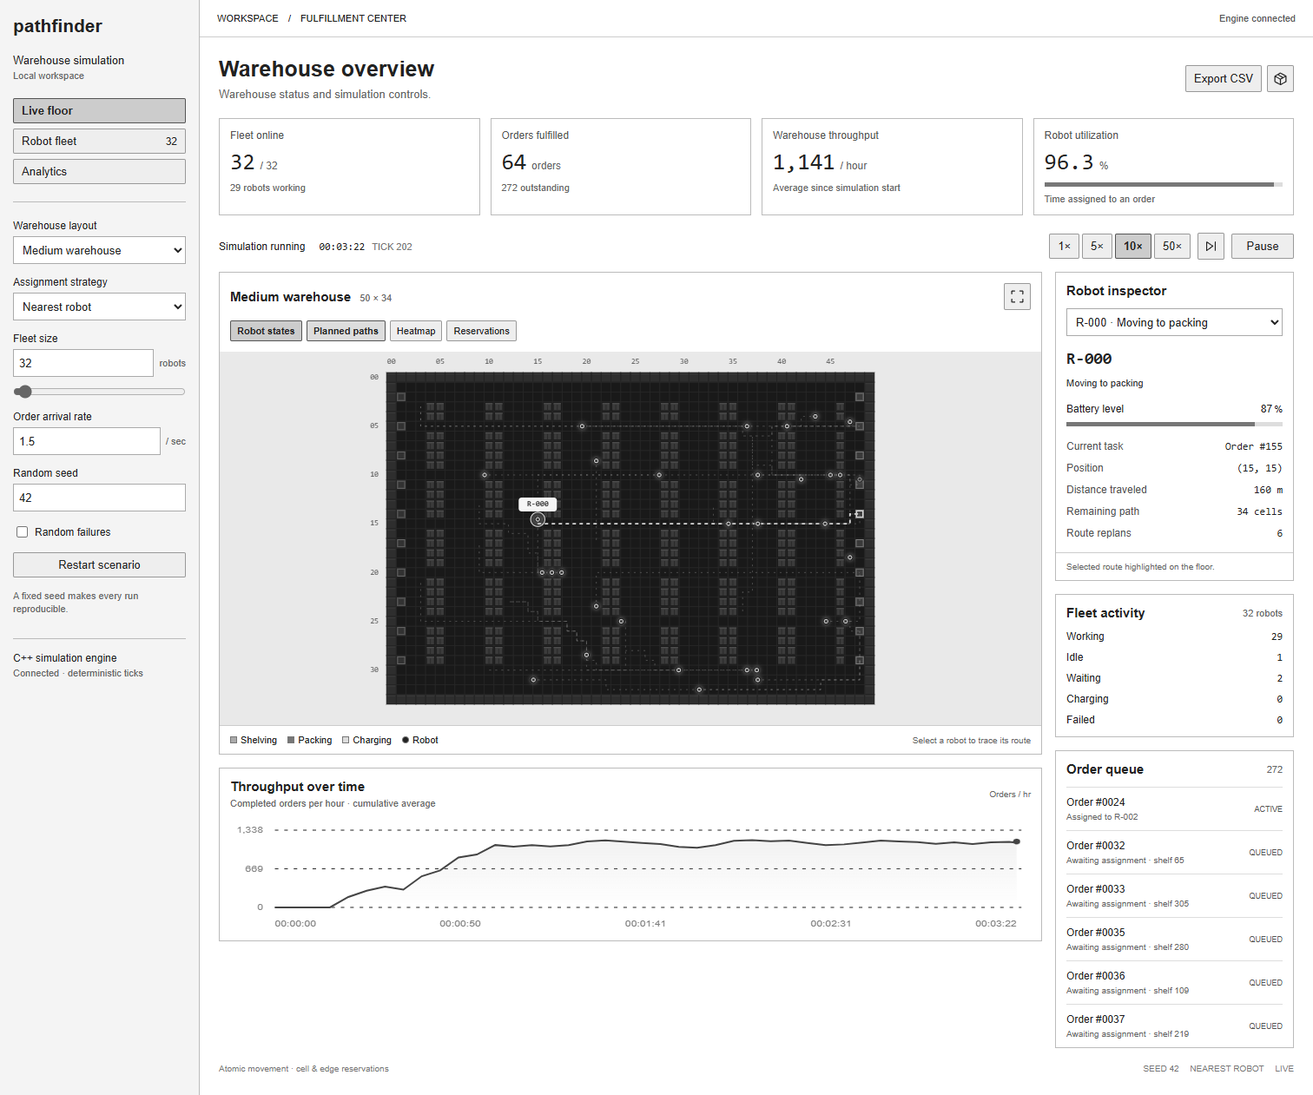
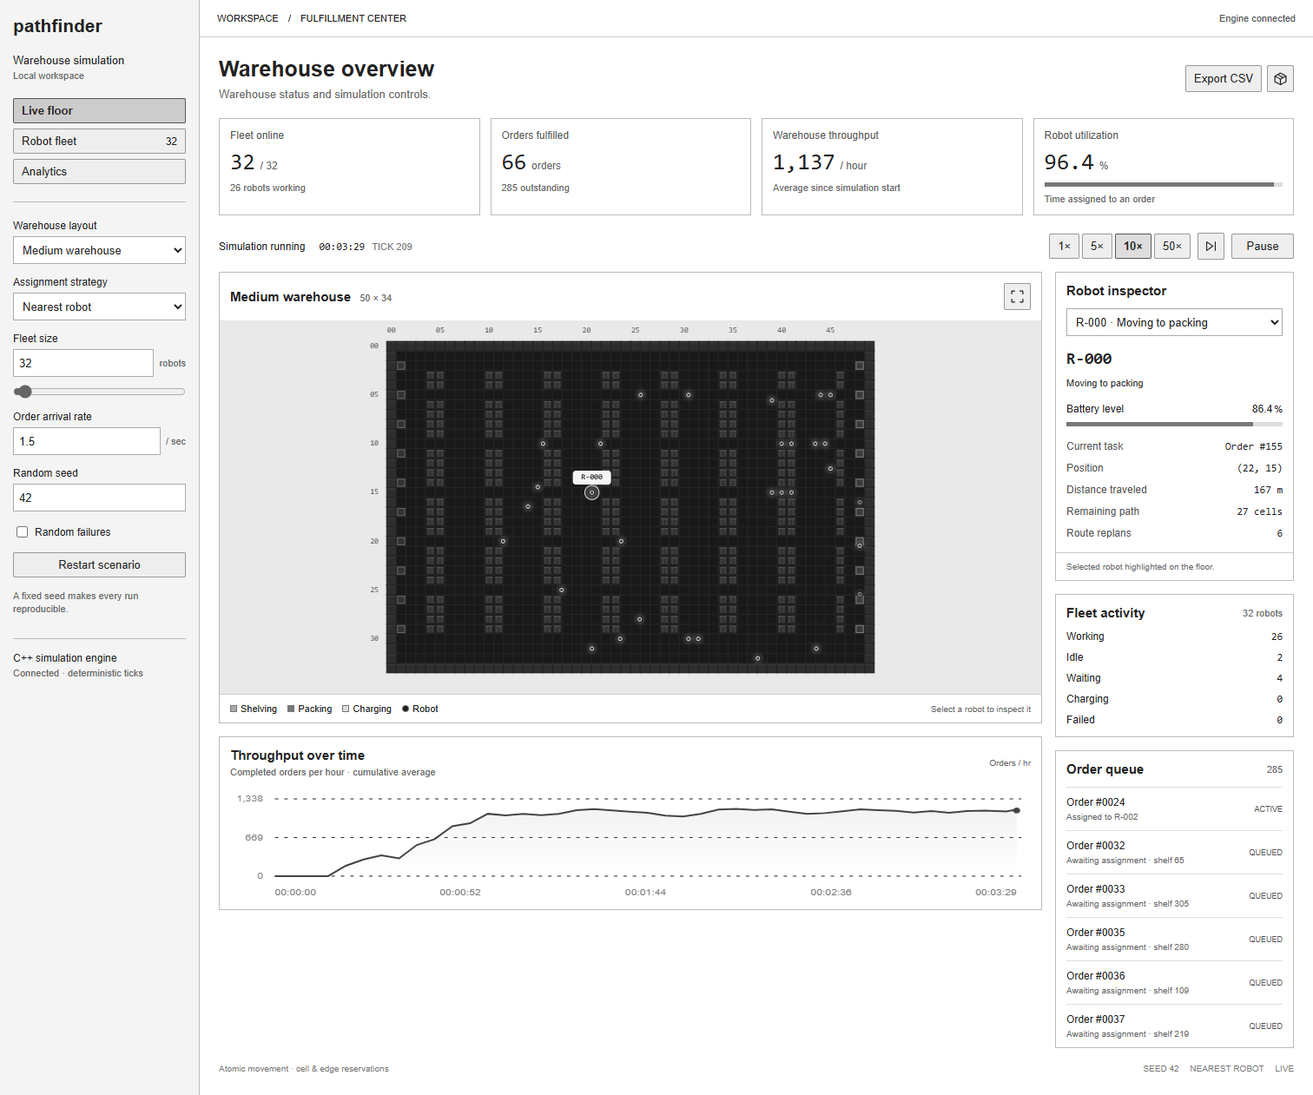
Replace README screenshot with focused simulation GIF and remove overlays

diff --git a/frontend/src/App.tsx b/frontend/src/App.tsx
@@ -4,12 +4,11 @@ import { FleetDistribution, ThroughputChart, duration, number } from './componen
 import { Icon } from './components/Icon';
 import { useSimulation } from './useSimulation';
 import { robotCategory, robotColors, robotName, stateLabel } from './types';
-import type { Config, Overlay, Robot } from './types';
+import type { Config, Robot } from './types';
 
 const initialConfig: Config = { robots: 32, orderRate: 1.5, scheduler: 'nearest', seed: 42, layout: 'medium', failuresEnabled: false, failureProbability: .00005 };
 const schedulers: Record<string, string> = { random: 'Random assignment', nearest: 'Nearest robot', cost: 'Route cost', hungarian: 'Hungarian batch' };
 const layoutNames: Record<string, string> = { small: 'Small warehouse', medium: 'Medium warehouse', large: 'Large warehouse', congested: 'Congestion test', procedural: 'Procedural warehouse' };
-const overlayNames: { key: Overlay; name: string; icon: string }[] = [{ key: 'states', name: 'Robot states', icon: 'bot' }, { key: 'paths', name: 'Planned paths', icon: 'route' }, { key: 'heatmap', name: 'Heatmap', icon: 'pulse' }, { key: 'reservations', name: 'Reservations', icon: 'layers' }];
 
 function RobotBadge({ robot }: { robot: Robot }) {
   const color = robotColors[robotCategory(robot.state)];
@@ -22,7 +21,6 @@ export default function App() {
   const [configured, setConfigured] = useState(false);
   const [view, setView] = useState<'live' | 'fleet' | 'analytics'>('live');
   const [selected, setSelected] = useState<number | null>(0);
-  const [overlays, setOverlays] = useState<Set<Overlay>>(new Set(['states']));
   const [search, setSearch] = useState('');
   const [expanded, setExpanded] = useState(false);
   useEffect(() => {
@@ -40,7 +38,6 @@ export default function App() {
   const dirty = state && Object.entries(draft).some(([key, value]) => state.config[key as keyof Config] !== value);
   const invalid = !Number.isInteger(draft.robots) || draft.robots < 1 || draft.robots > 1000 || !Number.isFinite(draft.orderRate) || draft.orderRate < 0 || draft.orderRate > 100 || !Number.isInteger(draft.seed) || draft.seed < 0 || draft.seed > 4294967295;
   const change = <K extends keyof Config>(key: K, value: Config[K]) => setDraft(previous => ({ ...previous, [key]: value }));
-  const toggle = (key: Overlay) => setOverlays(previous => { const next = new Set(previous); if (next.has(key)) next.delete(key); else next.add(key); return next; });
   const choose = (id: number) => { setSelected(id); setView('live'); };
   const restart = async () => { await control({ action: 'restart', config: draft }); };
 
@@ -86,10 +83,10 @@ export default function App() {
           <div className="playback-bar"><div className="run-state"><span className={`live-dot ${state.paused ? 'paused' : ''}`}/><strong>{state.paused ? 'Simulation paused' : 'Simulation running'}</strong><span className="run-divider"/><span className="sim-clock" data-testid="simulation-clock">{duration(state.tick)}</span><span className="tick-counter">TICK {number(state.tick)}</span></div><div className="playback-controls"><div className="speed-control" aria-label="Simulation speed">{[1, 5, 10, 50].map(speed => <button aria-pressed={state.speed === speed} key={speed} onClick={() => void control({ action: 'speed', speed })} disabled={busy || !connected}>{speed}×</button>)}</div><button className="icon-button step-button" aria-label="Advance one tick" title="Advance one tick" onClick={() => void control({ action: 'step' })} disabled={busy || !connected}><Icon name="step" size={17}/></button><button className="play-button" onClick={() => void control({ action: state.paused ? 'resume' : 'pause' })} disabled={busy || !connected}><Icon name={state.paused ? 'play' : 'pause'} size={15}/>{state.paused ? 'Resume' : 'Pause'}</button></div></div>
 
           {view === 'live' && <div className={`operations-grid ${expanded ? 'expanded' : ''}`}>
-            <div className="floor-column"><section className="panel floor-panel"><div className="panel-heading"><div><span className="section-kicker">LIVE FLOOR</span><h2>{layoutNames[state.config.layout] ?? state.config.layout}<span className="dimension-label">{state.warehouse.width} × {state.warehouse.height}</span></h2></div><button className="icon-button" aria-label={expanded ? 'Restore floor size' : 'Expand floor'} onClick={() => setExpanded(!expanded)} title="Expand floor"><Icon name="expand" size={17}/></button></div><div className="overlay-bar" aria-label="Map overlays">{overlayNames.map(overlay => <button key={overlay.key} aria-pressed={overlays.has(overlay.key)} onClick={() => toggle(overlay.key)}><Icon name={overlay.icon} size={14}/>{overlay.name}</button>)}</div><div className="canvas-container"><WarehouseCanvas state={state} overlays={overlays} selected={selected} onSelect={setSelected}/><span className="map-caption"><span className="mini-dot mint"/> LIVE TELEMETRY <span>1 CELL = 1 M</span></span></div><div className="map-legend"><span><i className="legend-shelf"/>Shelving</span><span><i className="legend-pack"/>Packing</span><span><i className="legend-charge"/>Charging</span><span><i className="legend-robot"/>Robot</span><small>Select a robot to trace its route</small></div></section>
+            <div className="floor-column"><section className="panel floor-panel"><div className="panel-heading"><div><span className="section-kicker">LIVE FLOOR</span><h2>{layoutNames[state.config.layout] ?? state.config.layout}<span className="dimension-label">{state.warehouse.width} × {state.warehouse.height}</span></h2></div><button className="icon-button" aria-label={expanded ? 'Restore floor size' : 'Expand floor'} onClick={() => setExpanded(!expanded)} title="Expand floor"><Icon name="expand" size={17}/></button></div><div className="canvas-container"><WarehouseCanvas state={state} selected={selected} onSelect={setSelected}/><span className="map-caption"><span className="mini-dot mint"/> LIVE TELEMETRY <span>1 CELL = 1 M</span></span></div><div className="map-legend"><span><i className="legend-shelf"/>Shelving</span><span><i className="legend-pack"/>Packing</span><span><i className="legend-charge"/>Charging</span><span><i className="legend-robot"/>Robot</span><small>Select a robot to inspect it</small></div></section>
               <section className="panel throughput-panel"><div className="panel-heading"><div><h2>Throughput over time</h2><p>Completed orders per hour · cumulative average</p></div><span className="chart-label"><span className="line-key"/>Orders / hr</span></div><ThroughputChart history={state.history ?? []}/></section>
             </div>
-            <aside className="detail-column"><section className="panel inspector"><div className="panel-heading"><h2>Robot inspector</h2><Icon name="bot" size={17}/></div><label className="sr-only" htmlFor="robot-selector">Select robot</label><select id="robot-selector" className="robot-selector" value={selected ?? ''} onChange={event => setSelected(Number(event.target.value))}>{state.robots.map(r => <option key={r.id} value={r.id}>{robotName(r.id)} · {stateLabel(r.state)}</option>)}</select>{robot && <><div className="robot-profile"><span className="robot-avatar"><Icon name="bot" size={34}/></span><div><h3 data-testid="selected-robot">{robotName(robot.id)}</h3><RobotBadge robot={robot}/></div></div><div className="battery-heading"><span><Icon name="bolt" size={13}/>Battery level</span><strong>{number(robot.battery, 1)}<small>%</small></strong></div><div className={`battery-track ${robot.battery < 25 ? 'low' : ''}`}><span style={{ width: `${robot.battery}%` }}/></div><dl className="robot-facts"><div><dt>Current task</dt><dd>{robot.taskId === null ? 'Unassigned' : `Order #${robot.taskId}`}</dd></div><div><dt>Position</dt><dd>({robot.x}, {robot.y})</dd></div><div><dt>Distance traveled</dt><dd>{number(robot.distance)} <span>m</span></dd></div><div><dt>Remaining path</dt><dd>{robot.path.length} <span>cells</span></dd></div><div><dt>Route replans</dt><dd>{robot.replans}</dd></div></dl><div className="inspector-note"><Icon name="route" size={14}/>{robot.path.length ? 'Selected route highlighted on the floor.' : 'Ready for the next route update.'}</div></>}</section>
+            <aside className="detail-column"><section className="panel inspector"><div className="panel-heading"><h2>Robot inspector</h2><Icon name="bot" size={17}/></div><label className="sr-only" htmlFor="robot-selector">Select robot</label><select id="robot-selector" className="robot-selector" value={selected ?? ''} onChange={event => setSelected(Number(event.target.value))}>{state.robots.map(r => <option key={r.id} value={r.id}>{robotName(r.id)} · {stateLabel(r.state)}</option>)}</select>{robot && <><div className="robot-profile"><span className="robot-avatar"><Icon name="bot" size={34}/></span><div><h3 data-testid="selected-robot">{robotName(robot.id)}</h3><RobotBadge robot={robot}/></div></div><div className="battery-heading"><span><Icon name="bolt" size={13}/>Battery level</span><strong>{number(robot.battery, 1)}<small>%</small></strong></div><div className={`battery-track ${robot.battery < 25 ? 'low' : ''}`}><span style={{ width: `${robot.battery}%` }}/></div><dl className="robot-facts"><div><dt>Current task</dt><dd>{robot.taskId === null ? 'Unassigned' : `Order #${robot.taskId}`}</dd></div><div><dt>Position</dt><dd>({robot.x}, {robot.y})</dd></div><div><dt>Distance traveled</dt><dd>{number(robot.distance)} <span>m</span></dd></div><div><dt>Remaining path</dt><dd>{robot.path.length} <span>cells</span></dd></div><div><dt>Route replans</dt><dd>{robot.replans}</dd></div></dl><div className="inspector-note"><Icon name="route" size={14}/>Selected robot highlighted on the floor.</div></>}</section>
               <section className="panel fleet-panel"><div className="panel-heading"><h2>Fleet activity</h2><span className="subtle-tag">{state.robots.length} robots</span></div><FleetDistribution robots={state.robots}/></section>
               <section className="panel queue-panel"><div className="panel-heading"><h2>Order queue</h2><span className="queue-count">{number(metrics!.outstandingOrders)}</span></div><div className="order-list">{tasks.length ? tasks.map(order => <div className="order-row" key={order.id}><span className="order-icon"><Icon name="box" size={15}/></span><div><strong>Order #{String(order.id).padStart(4, '0')}</strong><small>{order.assignedRobot !== null ? `Assigned to ${robotName(order.assignedRobot)}` : `Awaiting assignment · shelf ${order.shelfId}`}</small></div><span className={`priority p${order.priority}`}>{order.priority >= 3 ? 'HIGH' : order.status === 'assigned' ? 'ACTIVE' : 'QUEUED'}</span></div>) : <p className="empty-queue">No outstanding orders. The floor is clear.</p>}</div></section>
             </aside>

diff --git a/frontend/src/components/WarehouseCanvas.tsx b/frontend/src/components/WarehouseCanvas.tsx
@@ -1,15 +1,14 @@
 import { useEffect, useRef } from 'react';
-import type { Overlay, Robot, SimulationState } from '../types';
+import type { Robot, SimulationState } from '../types';
 import { robotCategory, robotColors, robotName } from '../types';
 
 type Props = {
   state: SimulationState;
-  overlays: Set<Overlay>;
   selected: number | null;
   onSelect: (id: number) => void;
 };
 
-export function WarehouseCanvas({ state, overlays, selected, onSelect }: Props) {
+export function WarehouseCanvas({ state, selected, onSelect }: Props) {
   const canvasRef = useRef<HTMLCanvasElement>(null);
   const view = useRef({ cell: 1, left: 0, top: 0 });
   const current = useRef(state);
@@ -44,7 +43,7 @@ export function WarehouseCanvas({ state, overlays, selected, onSelect }: Props) 
     resize.observe(canvas);
     function draw(now: number) {
       if (!context) return;
-      const { warehouse, robots, heatmap, reservations, tick } = current.current;
+      const { warehouse, robots } = current.current;
       if (width < 1 || height < 1) { animation = requestAnimationFrame(draw); return; }
       const cell = Math.min((width - 50) / warehouse.width, (height - 48) / warehouse.height);
       const left = (width - cell * warehouse.width) / 2;
@@ -106,40 +105,6 @@ export function WarehouseCanvas({ state, overlays, selected, onSelect }: Props) 
       context.font = '9px "SFMono-Regular", Consolas, monospace';
       context.fillStyle = '#4f6379';
       for (let x = 0; x < warehouse.width; x += 5) context.fillText(String(x).padStart(2, '0'), xAt(x), top - 12);
-      if (overlays.has('heatmap') && heatmap?.length) {
-        const max = Math.max(1, ...heatmap);
-        for (let i = 0; i < heatmap.length; i++) {
-          if (!heatmap[i]) continue;
-          const value = Math.sqrt(heatmap[i] / max);
-          context.fillStyle = `rgba(245, ${Math.round(160 - value * 80)}, 66, ${value * .67})`;
-          context.fillRect(left + i % warehouse.width * cell, top + Math.floor(i / warehouse.width) * cell, cell, cell);
-        }
-      }
-      if (overlays.has('reservations')) {
-        for (const reservation of reservations ?? []) {
-          if (reservation.tick < tick || reservation.tick > tick + 12) continue;
-          context.fillStyle = `rgba(181, 158, 252, ${Math.max(.08, .4 - (reservation.tick - tick) * .025)})`;
-          context.fillRect(left + reservation.x * cell + cell * .15, top + reservation.y * cell + cell * .15, cell * .7, cell * .7);
-        }
-      }
-      const pathRobots = overlays.has('paths') ? robots : robots.filter(robot => robot.id === selected);
-      for (const robot of pathRobots) {
-        if (!robot.path?.length) continue;
-        context.beginPath();
-        context.moveTo(xAt(robot.x), yAt(robot.y));
-        for (const point of robot.path) context.lineTo(xAt(point.x), yAt(point.y));
-        context.strokeStyle = robot.id === selected ? '#85efd7' : '#51bda25c';
-        context.lineWidth = robot.id === selected ? 1.8 : 1;
-        context.setLineDash(robot.id === selected ? [4, 4] : [2, 5]);
-        context.stroke();
-        context.setLineDash([]);
-        if (robot.id === selected) {
-          const destination = robot.path[robot.path.length - 1];
-          context.strokeStyle = '#85efd7';
-          context.lineWidth = 1.5;
-          context.strokeRect(left + destination.x * cell + 2, top + destination.y * cell + 2, cell - 4, cell - 4);
-        }
-      }
       const progress = Math.min(1, (now - updated.current) / frameGap.current);
       const sorted = [...robots].sort((a, b) => Number(a.id === selected) - Number(b.id === selected));
       for (const robot of sorted) {
@@ -150,7 +115,7 @@ export function WarehouseCanvas({ state, overlays, selected, onSelect }: Props) 
         const cx = xAt(x);
         const cy = yAt(y);
         const radius = Math.max(2.1, cell * .28);
-        const color = overlays.has('states') ? robotColors[robotCategory(robot.state)] : '#70e7ce';
+        const color = robotColors[robotCategory(robot.state)];
         if (robot.id === selected) {
           context.beginPath();
           context.arc(cx, cy, radius + 5, 0, Math.PI * 2);
@@ -190,7 +155,7 @@ export function WarehouseCanvas({ state, overlays, selected, onSelect }: Props) 
     }
     animation = requestAnimationFrame(draw);
     return () => { resize.disconnect(); cancelAnimationFrame(animation); };
-  }, [overlays, selected]);
+  }, [selected]);
 
   const select = (event: React.MouseEvent<HTMLCanvasElement>) => {
     const rect = event.currentTarget.getBoundingClientRect();

diff --git a/tests/browser/dashboard.spec.ts b/tests/browser/dashboard.spec.ts
@@ -1,7 +1,7 @@
 import { test, expect } from '@playwright/test';
 import { mkdir } from 'node:fs/promises';
 
-test('live controls, robot selection, overlays, fleet and analytics', async ({ page }) => {
+test('live controls, robot selection, fleet and analytics', async ({ page }) => {
   const errors: string[] = [];
   page.on('pageerror', error => errors.push(error.message));
   await page.goto('/');
@@ -23,10 +23,6 @@ test('live controls, robot selection, overlays, fleet and analytics', async ({ p
   const cell = Math.min((box!.width - 50) / state.warehouse.width, (box!.height - 48) / state.warehouse.height);
   await canvas.click({ position: { x: (box!.width - cell * state.warehouse.width) / 2 + (target.x + .5) * cell, y: (box!.height - cell * state.warehouse.height) / 2 + (target.y + .5) * cell } });
   await expect(page.getByTestId('selected-robot')).toHaveText('R-007');
-  await page.getByRole('button', { name: 'Planned paths', exact: true }).click();
-  await expect(page.getByRole('button', { name: 'Planned paths', exact: true })).toHaveAttribute('aria-pressed', 'true');
-  await page.getByRole('button', { name: 'Heatmap', exact: true }).click();
-  await page.getByRole('button', { name: 'Reservations', exact: true }).click();
   await page.getByRole('button', { name: /Robot fleet/ }).click();
   await page.getByLabel('Search robots').fill('R-003');
   await expect(page.locator('tbody tr')).toHaveCount(1);
@@ -66,7 +62,6 @@ test('capture an actual running simulation', async ({ page }) => {
   await page.goto('/');
   await expect.poll(async () => (await (await page.request.get('/api/state')).json()).tick, { timeout: 15000 }).toBeGreaterThan(180);
   await page.getByRole('button', { name: '10×', exact: true }).click();
-  await page.getByRole('button', { name: 'Planned paths', exact: true }).click();
   const state = await (await page.request.get('/api/state')).json();
   const active = state.robots.find((r: { path: unknown[] }) => r.path.length > 10);
   if (active) await page.getByLabel('Select robot').selectOption(String(active.id));

diff --git a/frontend/src/styles.css b/frontend/src/styles.css
@@ -45,7 +45,7 @@ input[type=checkbox], input[type=range] { accent-color: #666; }
 .workspace-tag small, .sidebar-bottom small { display: block; color: #666; margin-top: 4px; font-size: 11px; }
 .sidebar nav { display: flex; flex-direction: column; gap: 6px; }
 .nav-item { display: flex; align-items: center; justify-content: space-between; text-align: left; }
-.nav-item svg, .apply-button svg, .secondary-button svg, .play-button svg, .overlay-bar svg { display: none; }
+.nav-item svg, .apply-button svg, .secondary-button svg, .play-button svg { display: none; }
 .nav-count { font-size: 12px; font-weight: normal; }
 .sidebar-divider { border-top: 1px solid #bbb; margin: 20px 0; }
 .config-form { display: flex; flex-direction: column; gap: 14px; }
@@ -96,8 +96,6 @@ h1 { font-size: 25px; margin: 0; font-weight: 600; }
 .panel-heading p { font-size: 11px; color: #666; margin: 5px 0 0; }
 .panel-heading > svg { display: none; }
 .dimension-label { margin-left: 10px; font-size: 11px; color: #666; font-weight: normal; }
-.overlay-bar { display: flex; gap: 5px; flex-wrap: wrap; padding: 0 12px 12px; }
-.overlay-bar button { font-size: 11px; padding: 5px 7px; }
 .canvas-container { height: 430px; background: #e9e9e9; }
 .warehouse-canvas { width: 100%; height: 100%; display: block; cursor: crosshair; filter: grayscale(1); }
 .map-legend { display: flex; align-items: center; gap: 12px; flex-wrap: wrap; padding: 10px 12px; font-size: 11px; border-top: 1px solid #ccc; }

diff --git a/frontend/src/types.ts b/frontend/src/types.ts
@@ -54,8 +54,6 @@ export type SimulationState = {
   robots: Robot[];
   orders: Order[];
   metrics: Metrics;
-  heatmap: number[];
-  reservations: (Point & { tick: number; robotId: number })[];
   history: HistoryPoint[];
 };
 export type Control = {
@@ -63,7 +61,6 @@ export type Control = {
   speed?: number;
   config?: Config;
 };
-export type Overlay = 'paths' | 'heatmap' | 'reservations' | 'states';
 
 export function stateLabel(state: string): string {
   return state.toLowerCase().replaceAll('_', ' ').replace(/^./, s => s.toUpperCase());

diff --git a/README.md b/README.md
@@ -6,13 +6,13 @@
 
 ## Demo
 
-![Pathfinder dashboard captured from the running C++ simulation](docs/demo/screenshot.png)
+![Warehouse robots and robot selector recorded from the C++ simulation](docs/demo/demo.gif)
 
-Build and run the project, then open **http://127.0.0.1:8080**. Try 10× speed, enable planned paths, and select a robot to inspect its current task and battery. Use the same layout and seed when comparing schedulers.
+Build and run the project, then open **http://127.0.0.1:8080**. Try 10× speed and select a robot to inspect its current task and battery. Use the same layout and seed when comparing schedulers.
 
-The dashboard includes live throughput and fleet metrics, a selectable warehouse canvas, heatmap/path/reservation overlays, a robot inspector, a task queue, metric exports, and controls for pause, step, restart, fleet size, arrival rate, scheduler and seed.
+The dashboard includes live throughput and fleet metrics, a selectable warehouse canvas, a robot inspector, a task queue, metric exports, and controls for pause, step, restart, fleet size, arrival rate, scheduler and seed.
 
-Demo media lives in [`docs/demo/`](docs/demo/README.md). That page explains how to reproduce the screenshot and where to add a GIF or video; no generated illustration is presented as a running simulation.
+Demo media lives in [`docs/demo/`](docs/demo/README.md). The GIF shows a recorded warehouse run and robot selector; it is not an interactive control. Capture instructions are included there.
 
 ## Features
 
@@ -20,7 +20,7 @@ Demo media lives in [`docs/demo/`](docs/demo/README.md). That page explains how 
 - **Hand-written A*:** binary priority queue, admissible Manhattan heuristic, route cost/node/timing statistics.
 - **Concurrent collision avoidance:** exclusive cells, reverse-edge rejection, safe following chains, waiting, replanning and four-tick reservation forecasts.
 - **Interchangeable assignment:** seeded random, Manhattan nearest, exact route-cost selection with A* confirmation, and rectangular Hungarian optimization.
-- **Congestion-aware routes:** decaying density penalties and a cumulative traffic heatmap.
+- **Congestion-aware routes:** decaying density penalties and cumulative traffic counters.
 - **Battery management:** round-trip energy checks, charger admission, charging time and automatic return-to-work.
 - **Failure recovery:** temporary/permanent failures, abandoned-order reassignment and physical failed-robot obstacles.
 - **Real engine visualization:** React/TypeScript canvas, SSE snapshots and a small Node bridge to the C++ process.

diff --git a/docs/demo/README.md b/docs/demo/README.md
@@ -1,19 +1,17 @@
-# Demo media
+# Demo recording
 
-This directory is the intended home for media captured from the running simulator.
+![Warehouse animation and robot selector](demo.gif)
 
-![Running Pathfinder dashboard](screenshot.png)
+The README uses `demo.gif`: an eight-second looping recording of the real C++ simulation, cropped to the warehouse and robot dropdown. It has 80 frames, includes robot selection changes, and contains no heatmap, reservation, or planned-path overlays. A GIF is a recording; its dropdown is not interactive.
 
-- `screenshot.png`: actual dashboard screenshot captured by the browser integration check.
-- `demo.gif` or `demo.mp4`: optional future recording; these are not fabricated or bundled placeholders.
+## Recreate it
 
-To record a demonstration:
+With dependencies installed and the built simulator running through `npm start`:
 
-1. Follow the root README to build the engine and dashboard, then run `npm start`.
-2. Open `http://127.0.0.1:8080` at a desktop resolution.
-3. Use the medium layout with 32 robots, seed 42 and 10× speed.
-4. Show robots retrieving items, delivering to packing, and battery levels changing.
-5. Select a robot, toggle planned paths, then switch to the congestion heatmap or reservations.
-6. Export metrics to show that the visual demo and benchmark data come from the same engine.
+```sh
+node scripts/capture-demo.mjs
+```
 
-A screenshot documents one observed state, not a claim about throughput capacity. Benchmark tables come only from native CLI runs.
+The capture script uses installed Chrome (or Playwright Chromium with `CI=1`), resets to the medium layout with 32 robots and seed 42, and advances the native engine one tick per frame. Presentation-only cropping does not alter robot positions. `recording.json` records frame count, tick range and settings.
+
+`screenshot.png` is retained as a full-dashboard reference from browser testing; the repository front page displays the GIF instead.

diff --git a/docs/ALGORITHMS.md b/docs/ALGORITHMS.md
@@ -65,7 +65,7 @@ For `B` order rows and `R` robot columns, work is `O(B²(R+B))`; the matrix uses
 
 Two fields serve different purposes:
 
-1. **Cumulative visits:** increment on every successful move; never decay; displayed as the heatmap.
+1. **Cumulative visits:** increment on every successful move; never decay; available in the engine state API.
 2. **Recent density:** multiply by `0.96` each tick and add `0.12` on entry; feed into A* costs.
 
 Charging routes use zero congestion weight to avoid needless energy detours. A rejected movement increments `collisionsPrevented`; a blocked streak reaching three ticks increments `congestionEvents`. These are intervention/event counters, not measurements of actual collisions. Actual same-cell and swap collisions are forbidden and tested as invariants.
